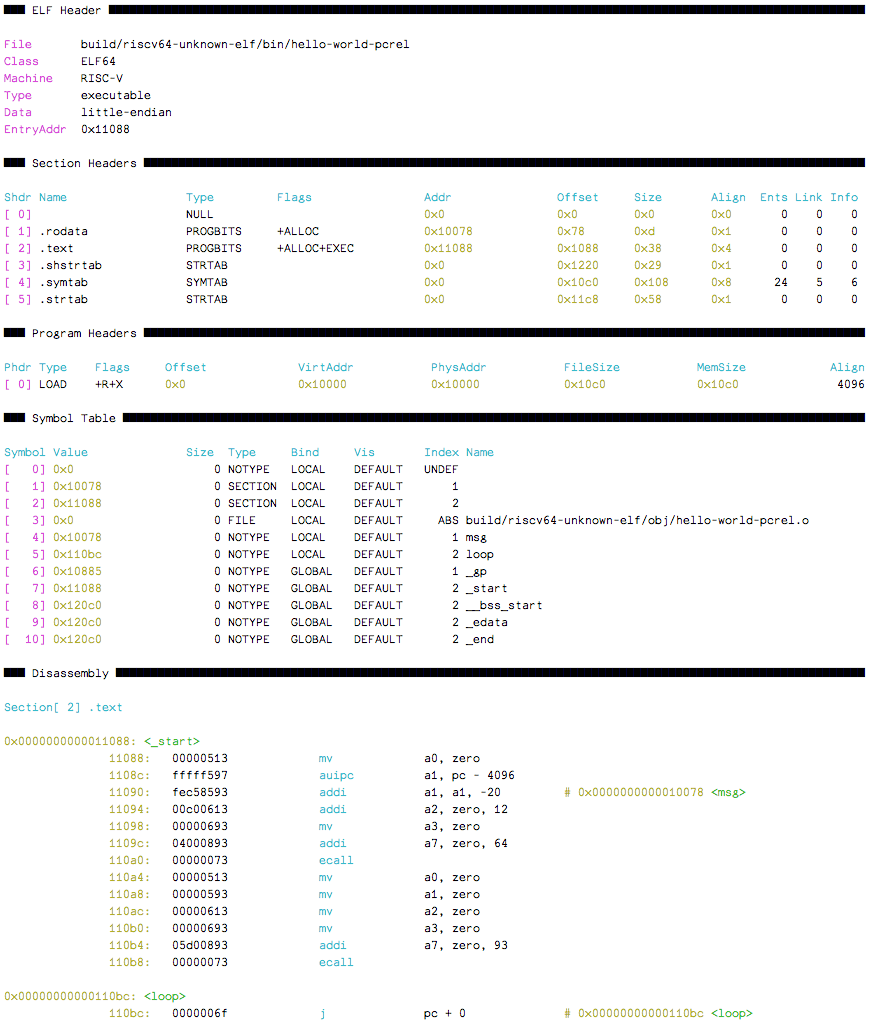
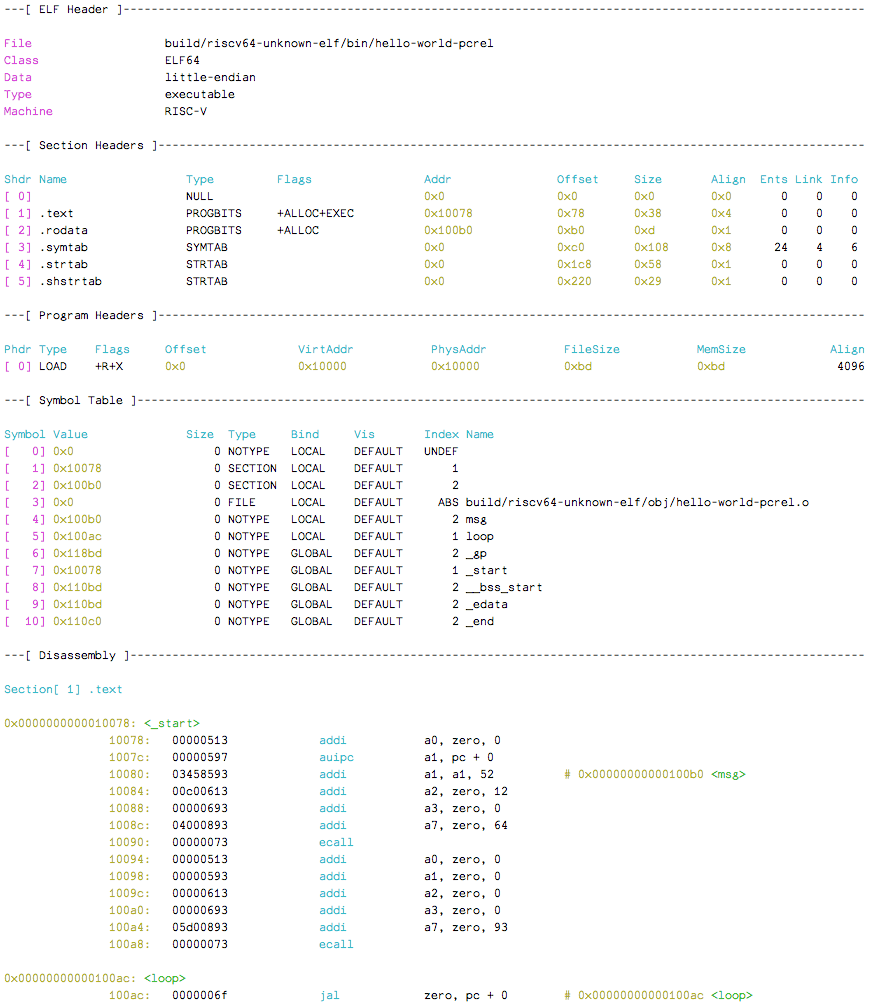
Remove requirement for unicode block char in disassembly

diff --git a/src/app/rv-dump.cc b/src/app/rv-dump.cc
@@ -246,8 +246,8 @@ struct rv_parse_elf
 
 	void print_heading(std::string heading)
 	{
-		printf("\n%s███ %s ", colorize("header"), heading.c_str());
-		for (size_t i = 0; i < 118 - heading.length(); i++) printf("█");
+		printf("\n%s---[ %s ]", colorize("header"), heading.c_str());
+		for (size_t i = 0; i < 116 - heading.length(); i++) printf("-");
 		printf("%s\n\n", colorize("reset"));
 	}
 
